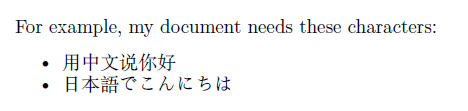
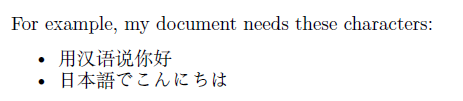
error fix in post

Changed region(s): [[0.0605, 0.4752, 0.514, 0.8911], [0.0, 0.1485, 0.9374, 0.3564]]

diff --git a/_posts/2023-02-16-Rmarkdown-LaTex.md b/_posts/2023-02-16-Rmarkdown-LaTex.md
@@ -441,7 +441,7 @@ This NEG is one CL pipe\\
 
 ### **Including Chinese and Japanese characters** <a name="step2.9"></a>
 
-The easiest way to include some Chinese and Japanese characters in an otherwise English document is using XeTeX's `xeCJK` package. This package also supports Korean characters, with some font settings, details [here](https://www.overleaf.com/learn/latex/Korean) and [here](https://www.jkangpathology.com/post/2020-10-27-use-korean-font-in-rmarkdown/). To use this package, the PDF engine has to be set to XeTeX. 
+The easiest way to include some Chinese and Japanese characters in an otherwise English document is using XeTeX's `xeCJK` package. This package also supports Korean characters, with some font settings, details [here](https://www.overleaf.com/learn/latex/Korean) and [here](https://www.jkangpathology.com/post/2020-10-27-use-korean-font-in-rmarkdown/). To use this package, the PDF engine has to be set to xelatex. 
 
 In your YAML header, specify the PDF engine, and use the `xeCJK` package: 
 
@@ -457,7 +457,7 @@ Then you can freely include the characters in your document:
 ```
 For example, my document needs these characters:
 
-- 用中文说你好
+- 用汉语说你好
 - 日本語でこんにちは
 ```
 
